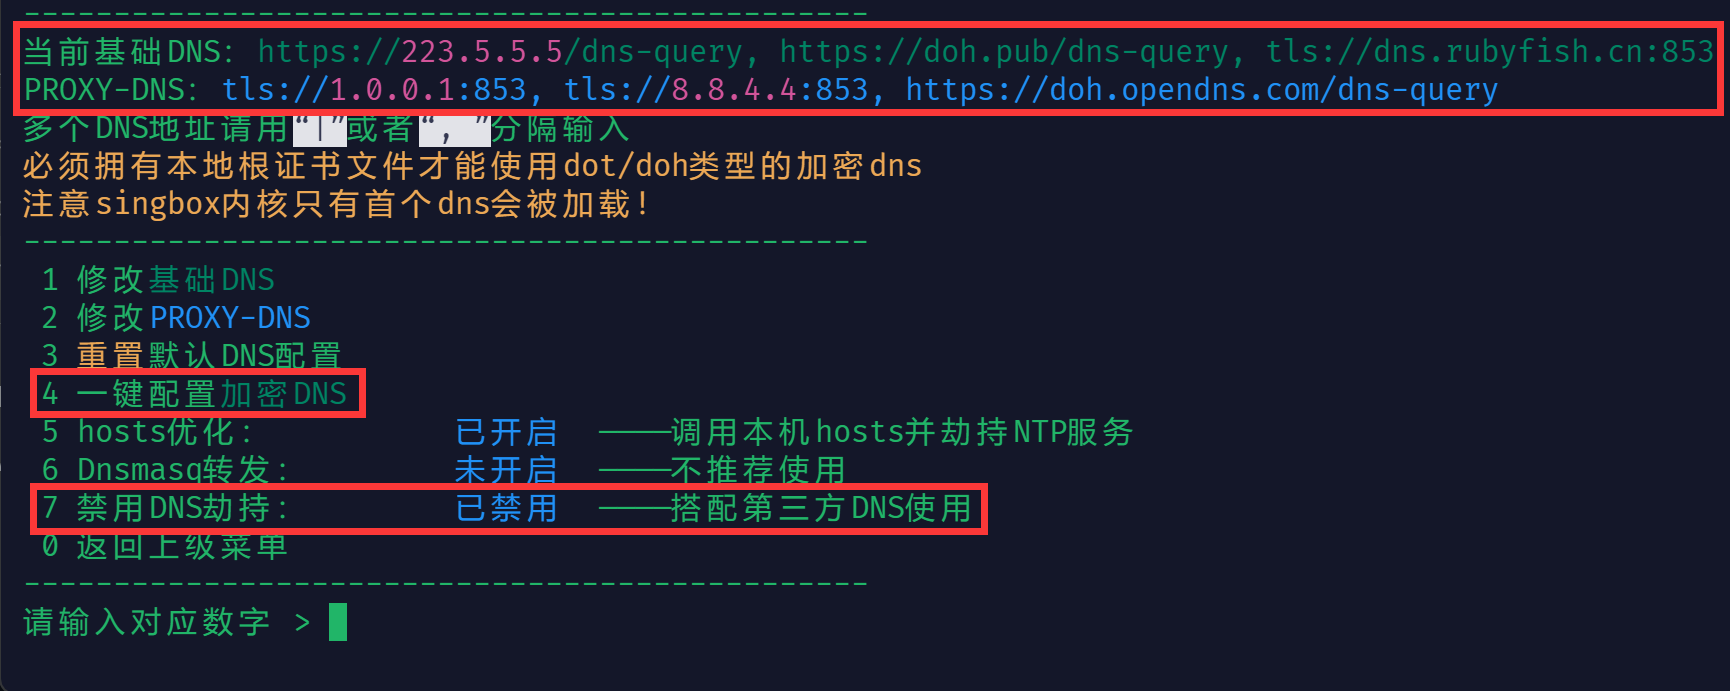
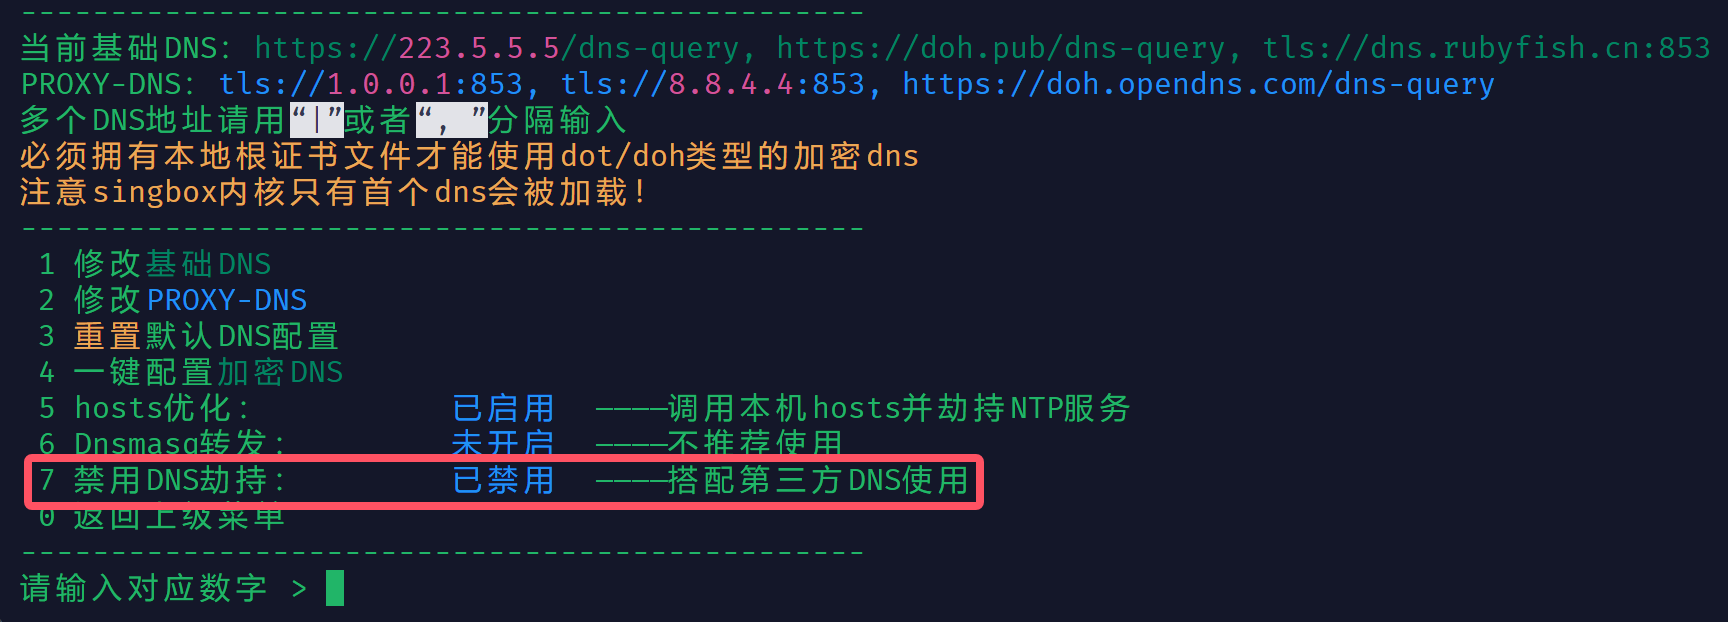
2025.01.21：https://github.com/DustinWin/dustinwin.github.io

Changed region(s): [[0.0, 0.0, 1.0, 0.9775]]

diff --git a/Proxy/DustinWin-github.io/_posts/2024-08-21-pin-shellcrashadguardhome-singboxp.md b/Proxy/DustinWin-github.io/_posts/2024-08-21-pin-shellcrashadguardhome-singboxp.md
@@ -287,7 +287,7 @@ echo -e '12345678\n12345678' | passwd root
   - ➌ 进入 2 切换 DNS 运行模式，选择 3 mix 混合模式  
     <img src="/assets/img/pin/tproxy-mix.png" alt="ShellCrash 配置 4" width="60%" />
 
-  - ➍ 进入 2 切换 DNS 运行模式 → 4 DNS 进阶设置，选择 4 一键配置加密 DNS，选择 7 禁用 DNS 劫持
+  - ➍ 进入 2 切换 DNS 运行模式 → 4 DNS 进阶设置，选择 7 禁用 DNS 劫持
     - 注：推荐设置 DNS 分流（单独使用 ShellCrash 以及 ShellCrash 搭配 AdGuard Home 都适用），请看《[搭载 sing-boxp 内核进行 DNS 分流教程-geodata 方案](https://proxy-tutorials.dustinwin.top/posts/dnsbypass-singboxp-geodata)》或《[搭载 sing-boxp 内核进行 DNS 分流教程-ruleset 方案](https://proxy-tutorials.dustinwin.top/posts/dnsbypass-singboxp-ruleset)》
 
     <img src="/assets/img/pin/dns-setting.png" alt="ShellCrash 配置 3" width="60%" />

diff --git a/Proxy/DustinWin-github.io/_posts/2024-08-21-pin-shellcrashadguardhome-mihomo.md b/Proxy/DustinWin-github.io/_posts/2024-08-21-pin-shellcrashadguardhome-mihomo.md
@@ -281,7 +281,7 @@ echo -e '12345678\n12345678' | passwd root
   - ➌ 进入 2 切换 DNS 运行模式，选择 3 mix 混合模式  
     <img src="/assets/img/pin/tproxy-mix.png" alt="ShellCrash 配置 4" width="60%" />
 
-  - ➍ 进入 2 切换 DNS 运行模式 → 4 DNS 进阶设置，选择 4 一键配置加密 DNS，选择 7 禁用 DNS 劫持
+  - ➍ 进入 2 切换 DNS 运行模式 → 4 DNS 进阶设置，选择 7 禁用 DNS 劫持
     - 注：推荐设置 DNS 分流（单独使用 ShellCrash 以及 ShellCrash 搭配 AdGuard Home 都适用），请看《[搭载 mihomo 内核进行 DNS 分流教程-geodata 方案](https://proxy-tutorials.dustinwin.top/posts/dnsbypass-mihomo-geodata)》或《[搭载 mihomo 内核进行 DNS 分流教程-ruleset 方案](https://proxy-tutorials.dustinwin.top/posts/dnsbypass-mihomo-ruleset)》
 
     <img src="/assets/img/pin/dns-setting.png" alt="ShellCrash 配置 3" width="60%" />
